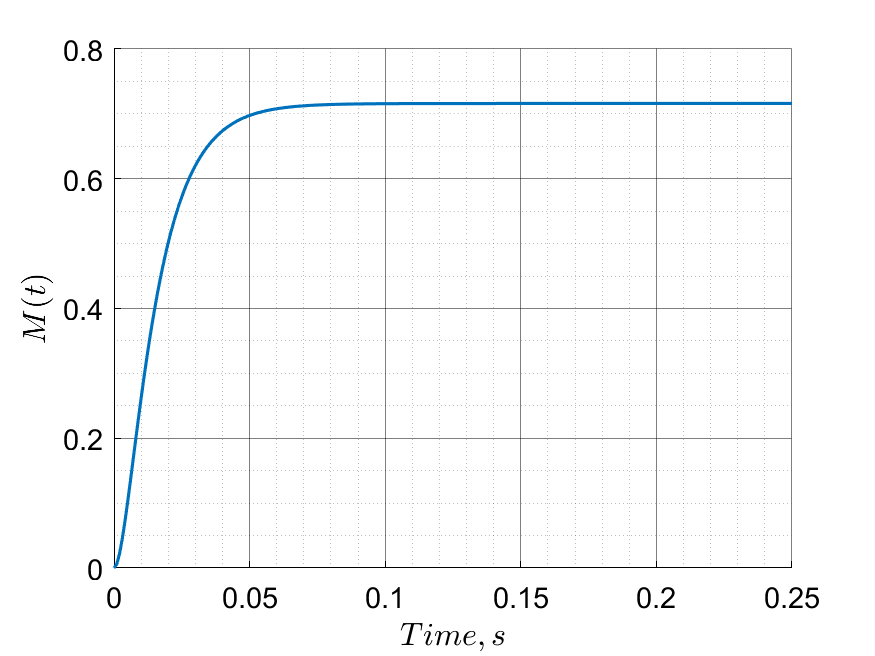
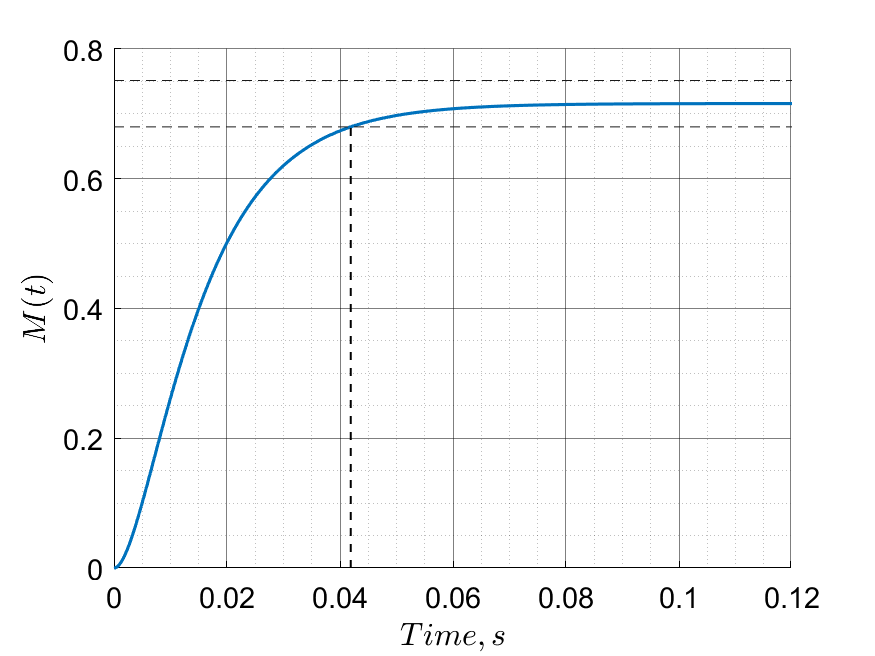
Update TASK2

diff --git a/Task2/InterX.m b/Task2/InterX.m
@@ -1,0 +1,82 @@
+function P = InterX(L1,varargin)
+%INTERX Intersection of curves
+%   P = INTERX(L1,L2) returns the intersection points of two curves L1 
+%   and L2. The curves L1,L2 can be either closed or open and are described
+%   by two-row-matrices, where each row contains its x- and y- coordinates.
+%   The intersection of groups of curves (e.g. contour lines, multiply 
+%   connected regions etc) can also be computed by separating them with a
+%   column of NaNs as for example
+%
+%         L  = [x11 x12 x13 ... NaN x21 x22 x23 ...;
+%               y11 y12 y13 ... NaN y21 y22 y23 ...]
+%
+%   P has the same structure as L1 and L2, and its rows correspond to the
+%   x- and y- coordinates of the intersection points of L1 and L2. If no
+%   intersections are found, the returned P is empty.
+%
+%   P = INTERX(L1) returns the self-intersection points of L1. To keep
+%   the code simple, the points at which the curve is tangent to itself are
+%   not included. P = INTERX(L1,L1) returns all the points of the curve 
+%   together with any self-intersection points.
+%   
+%   Example:
+%       t = linspace(0,2*pi);
+%       r1 = sin(4*t)+2;  x1 = r1.*cos(t); y1 = r1.*sin(t);
+%       r2 = sin(8*t)+2;  x2 = r2.*cos(t); y2 = r2.*sin(t);
+%       P = InterX([x1;y1],[x2;y2]);
+%       plot(x1,y1,x2,y2,P(1,:),P(2,:),'ro')
+
+%   Author : NS
+%   Version: 3.0, 21 Sept. 2010
+
+%   Two words about the algorithm: Most of the code is self-explanatory.
+%   The only trick lies in the calculation of C1 and C2. To be brief, this
+%   is essentially the two-dimensional analog of the condition that needs
+%   to be satisfied by a function F(x) that has a zero in the interval
+%   [a,b], namely
+%           F(a)*F(b) <= 0
+%   C1 and C2 exactly do this for each segment of curves 1 and 2
+%   respectively. If this condition is satisfied simultaneously for two
+%   segments then we know that they will cross at some point. 
+%   Each factor of the 'C' arrays is essentially a matrix containing 
+%   the numerators of the signed distances between points of one curve
+%   and line segments of the other.
+
+    %...Argument checks and assignment of L2
+    error(nargchk(1,2,nargin));
+    if nargin == 1,
+        L2 = L1;    hF = @lt;   %...Avoid the inclusion of common points
+    else
+        L2 = varargin{1}; hF = @le;
+    end
+       
+    %...Preliminary stuff
+    x1  = L1(1,:)';  x2 = L2(1,:);
+    y1  = L1(2,:)';  y2 = L2(2,:);
+    dx1 = diff(x1); dy1 = diff(y1);
+    dx2 = diff(x2); dy2 = diff(y2);
+    
+    %...Determine 'signed distances'   
+    S1 = dx1.*y1(1:end-1) - dy1.*x1(1:end-1);
+    S2 = dx2.*y2(1:end-1) - dy2.*x2(1:end-1);
+    
+    C1 = feval(hF,D(bsxfun(@times,dx1,y2)-bsxfun(@times,dy1,x2),S1),0);
+    C2 = feval(hF,D((bsxfun(@times,y1,dx2)-bsxfun(@times,x1,dy2))',S2'),0)';
+
+    %...Obtain the segments where an intersection is expected
+    [i,j] = find(C1 & C2); 
+    if isempty(i),P = zeros(2,0);return; end;
+    
+    %...Transpose and prepare for output
+    i=i'; dx2=dx2'; dy2=dy2'; S2 = S2';
+    L = dy2(j).*dx1(i) - dy1(i).*dx2(j);
+    i = i(L~=0); j=j(L~=0); L=L(L~=0);  %...Avoid divisions by 0
+    
+    %...Solve system of eqs to get the common points
+    P = unique([dx2(j).*S1(i) - dx1(i).*S2(j), ...
+                dy2(j).*S1(i) - dy1(i).*S2(j)]./[L L],'rows')';
+              
+    function u = D(x,y)
+        u = bsxfun(@minus,x(:,1:end-1),y).*bsxfun(@minus,x(:,2:end),y);
+    end
+end

diff --git a/Task2/plot_step.m b/Task2/plot_step.m
@@ -1,0 +1,38 @@
+function createfigure(X1, Y1, x_lable, y_lable, color)
+Yup = 1.05*mean(Y1(end*3/4:end))*ones(size(X1'));
+Ydown = 0.95*mean(Y1(end*3/4:end))*ones(size(X1'));
+Pup = InterX([X1'; Yup],[X1';Y1']);
+Pdown = InterX([X1'; Ydown],[X1';Y1']);
+P = sortrows([Pup Pdown]');
+Plast = P(end,:);
+% Create figure
+figure1 =  figure();
+% Create axes
+axes1 = axes('Parent',figure1);
+hold(axes1,'on');
+% Create plot
+if color
+    plot(X1,Y1,'LineWidth',1.5);
+else
+    plot(X1,Y1,'LineWidth',1.5,'Color',[0 0 0]);
+end
+plot(X1, [Yup' Ydown'],'--','LineWidth',0.5,'Color',[0.1 0.1 0.1]);
+plot([Plast(1) Plast(1)],[0, Plast(2)],'--','LineWidth',1,'Color',[0 0 0]);
+% Create ylabel
+ylabel(y_lable,...
+'LineStyle','none',...
+'HorizontalAlignment','center',...
+'Interpreter','latex');
+ 
+% Create xlabel
+xlabel(x_lable,'HorizontalAlignment','center','Interpreter','latex');
+ 
+% Uncomment the following line to preserve the X-limits of the axes
+% xlim(axes1,[0 10]);
+% Set the remaining axes properties
+set(axes1,'FontSize',14,'GridAlpha',0.5,'GridColor',[0 0 0],'XColor',...
+[0 0 0],'XGrid','on','XMinorGrid','on','YColor',[0 0 0],'YGrid','on',...
+'YMinorGrid','on','ZColor',[0 0 0]);
+hold(axes1,'off');
+
+disp(['Время переходного процесса ', num2str(Plast(1))])

diff --git a/Task2/task21.m b/Task2/task21.m
@@ -13,7 +13,7 @@ D = zeros(2);
 
 sys = ss(A,B,C,D);
 %%
-time = 0:0.001:0.25;
+time = 0:0.0001:0.12;
 u = [0.1*wnom*ones(size(time)); time*0];
 y1 = lsim(sys, u, time);
 M_1 = y1(:,1);
@@ -24,12 +24,13 @@ y2 = lsim(sys, u, time);
 M_2 = y2(:,1);
 w1_2 = y2(:,2);
 
-plot_xy_continuous_lable(time, w1_1, "$Time, s$", "$\omega_1(t)$", true)
+%%
+plot_step(time', w1_1, "$Time, s$", "$\omega_1(t)$", true)
 saveas(gcf, path+'task11_omega1.png')
 plot_xy_continuous_lable(time, M_1, "$Time, s$", "$M(t)$", true)
 saveas(gcf, path+'task11_M.png')
 
-plot_xy_continuous_lable(time, M_2, "$Time, s$", "$M(t)$", true)
+plot_step(time', M_2, "$Time, s$", "$M(t)$", true)
 saveas(gcf, path+'task12_M.png')
 plot_xy_continuous_lable(time, w1_2, "$Time, s$", "$\omega_1(t)$", true)
 saveas(gcf, path+'task12_omega1.png')

diff --git a/Task2/config.m b/Task2/config.m
@@ -12,13 +12,21 @@ Mc1 = 4.77;
 Mc2 = 2.39;
 
 gamma = (J1+J2)/J1;
-w0 = sqrt((C12*(J1+J2))/(J1*J2));
-wc1 = w0/sqrt(gamma);
-wc2 = w0;
+Omega0 = sqrt((C12*(J1+J2))/(J1*J2));
+wc1 = Omega0/sqrt(gamma);
+wc2 = Omega0;
 
 betta = Mp/wnom;
 J=J1+J2;
 Tm = J/betta;
 
+%%
+Omega_d = sqrt(1/(Te*Tm));
+delta = 1/(2*Te);
 
+lambda_1 = -delta+sqrt(delta^2 - Omega_d^2);
+lambda_2 = -delta-sqrt(delta^2 - Omega_d^2);
+T_1 = abs(1/lambda_1);
+T_2 = abs(1/lambda_2);
+T_per = 3*T_1
 

diff --git a/Task1/config.m b/Task1/config.m
@@ -12,9 +12,10 @@ Mc1 = 4.77;
 Mc2 = 2.39;
 
 gamma = (J1+J2)/J1;
-w0 = sqrt((C12*(J1+J2))/(J1*J2));
-wc1 = w0/sqrt(gamma);
-wc2 = w0;
+Omega12 = sqrt(C12*(J1+J2)/(J1*J2));
+eps_avg = M1/(J1+J2);
+wc1 = Omega12/sqrt(gamma);
+wc2 = Omega12;
 
 betta = Mp/wnom;
 J=J1+J2;

diff --git a/Task1/task1.m b/Task1/task1.m
@@ -3,9 +3,6 @@ config;
 %% Theory
 M1 = 0.1*Mnom;
 
-Omega12 = sqrt(C12*(J1+J2)/(J1*J2));
-eps_avg = M1/(J1+J2);
-
 %% Modeling
 TIME = 0.2;
 sim_out = sim("model1.slx", TIME);
